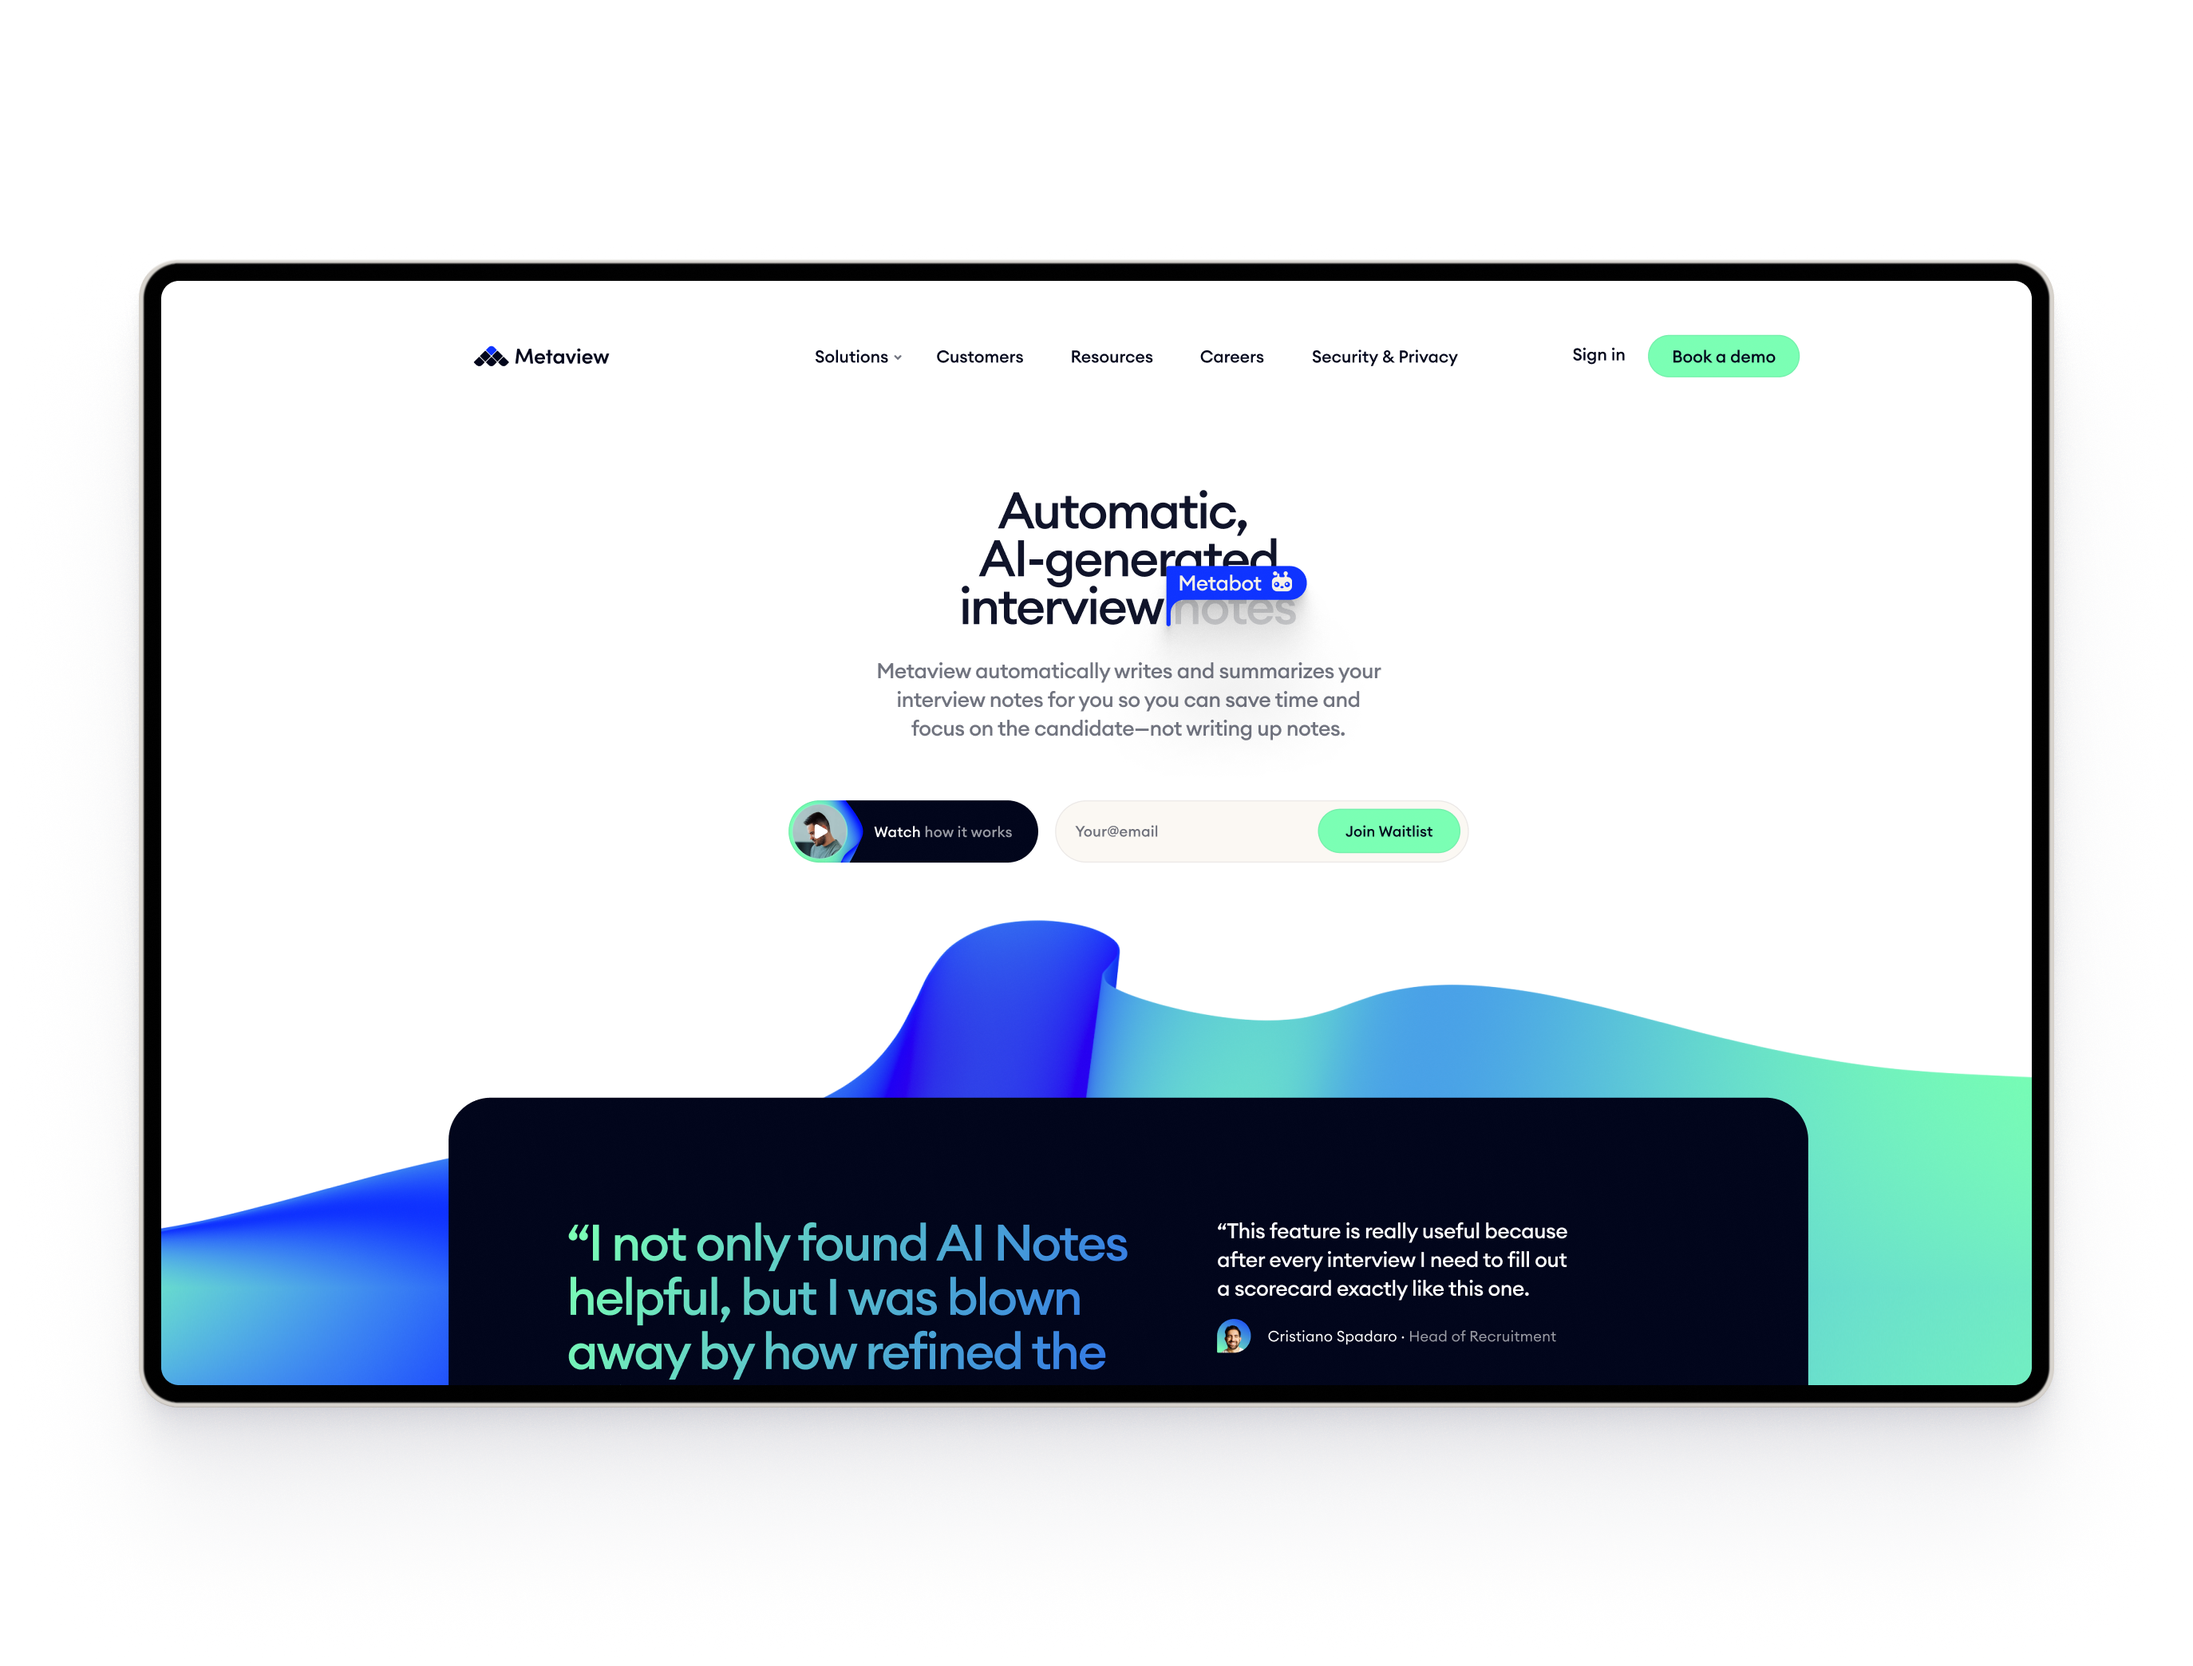
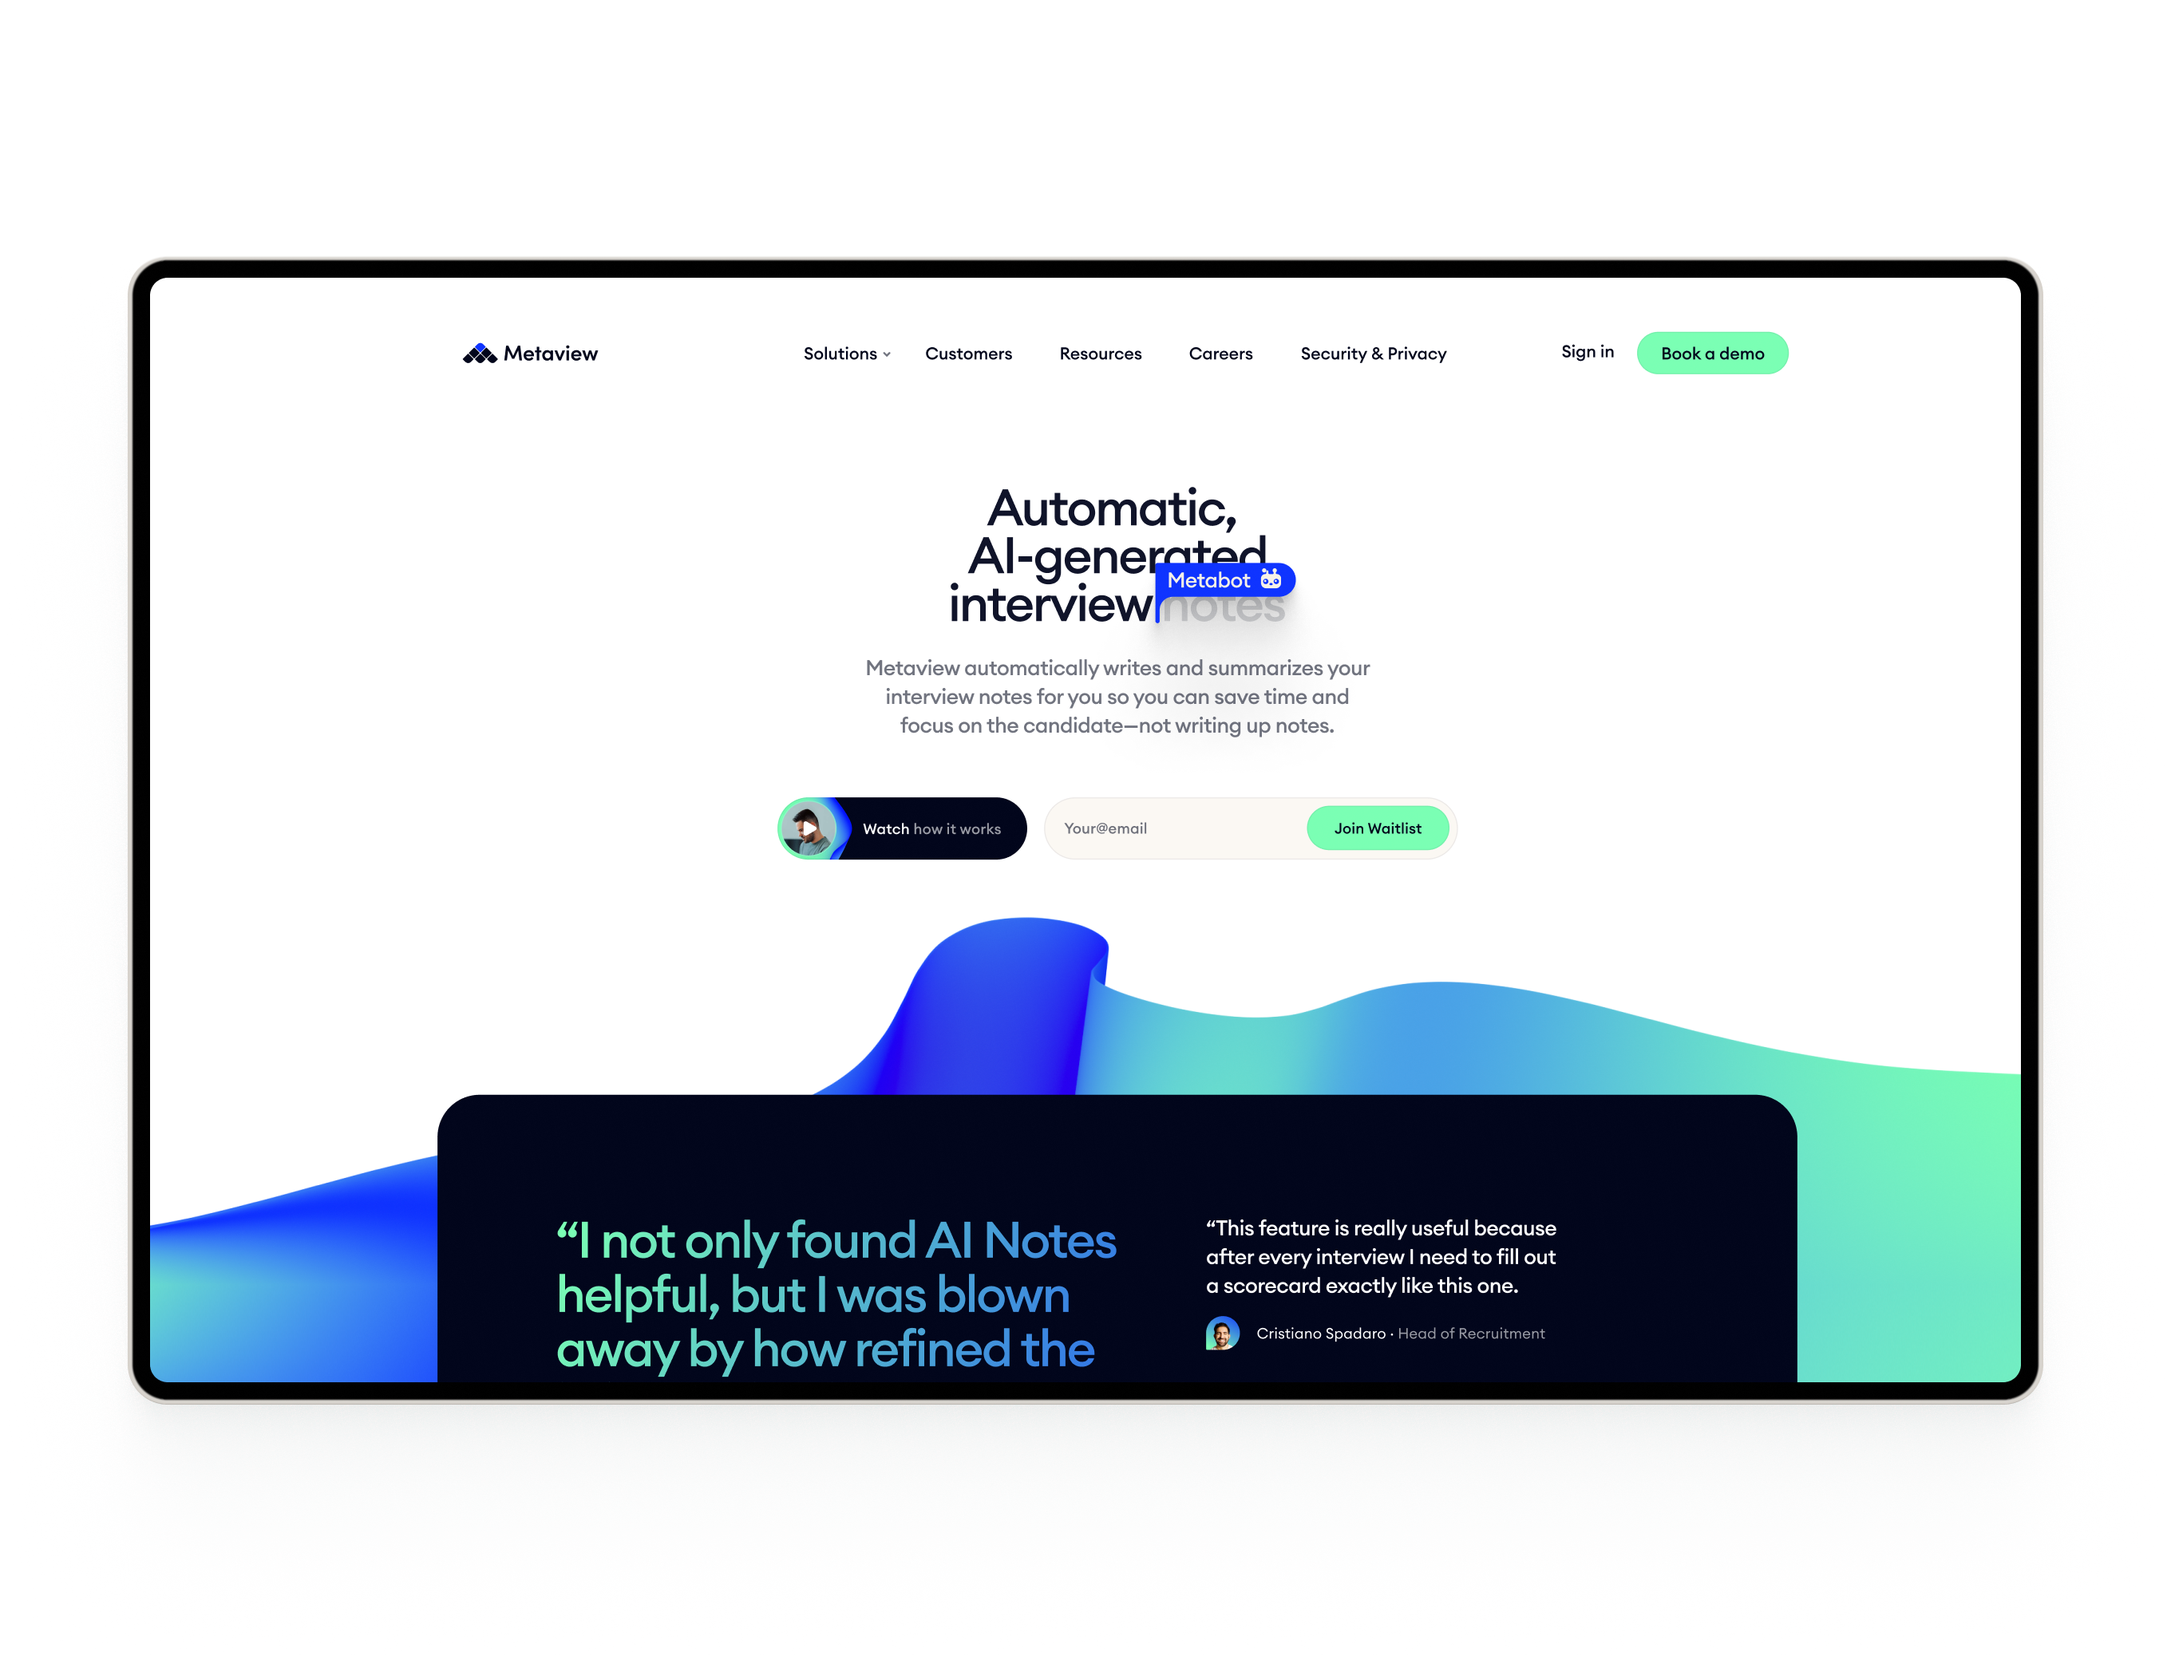
Add metaview assets

Changed region(s): [[0.0312, 0.1562, 0.9688, 0.8438], [0.4062, 0.2812, 0.625, 0.4375], [0.3438, 0.4688, 0.4062, 0.5312]]

diff --git a/src/pages/metaview/index.tsx b/src/pages/metaview/index.tsx
@@ -17,7 +17,56 @@ const Metaview = () => {
       <GridParent sx={{ rowGap: "clamp(8rem, 16vw, 16rem)" }}>
         <CaseHero heroHeight={1214}>
           <CaseHeroChild>
-            <Img src={images.metaviewHeroMobile} fromFolder="metaview" />
+            <Img src={images.heroMobile} fromFolder="metaview" />
+          </CaseHeroChild>
+
+          <CaseHeroChild
+            childStyle={{
+              marginLeft: "auto",
+              marginTop: "0%",
+            }}
+          >
+            <Img src={images.heroCard} fromFolder="metaview" ignoreShadow />
+          </CaseHeroChild>
+          <CaseHeroChild
+            childStyle={{
+              marginLeft: "0%",
+              marginTop: "41%",
+            }}
+          >
+            <Img src={images.heroChart} fromFolder="metaview" ignoreShadow />
+          </CaseHeroChild>
+          <CaseHeroChild
+            childStyle={{
+              marginLeft: "55.5%",
+              marginTop: "32%",
+            }}
+          >
+            <Img src={images.heroIcons} fromFolder="metaview" />
+          </CaseHeroChild>
+          <CaseHeroChild
+            childStyle={{
+              marginLeft: "auto",
+              marginTop: "31.4%",
+            }}
+          >
+            <Img src={images.heroGreenRibbon} fromFolder="metaview" />
+          </CaseHeroChild>
+          <CaseHeroChild
+            childStyle={{
+              marginLeft: "0%",
+              marginTop: "auto",
+            }}
+          >
+            <Img src={images.heroBubble} fromFolder="metaview" />
+          </CaseHeroChild>
+          <CaseHeroChild
+            childStyle={{
+              marginLeft: "35%",
+              marginTop: "auto",
+            }}
+          >
+            <Img src={images.heroSpag} fromFolder="metaview" ignoreShadow />
           </CaseHeroChild>
           <CaseHeroChild
             childStyle={{
@@ -25,7 +74,7 @@ const Metaview = () => {
               marginTop: "auto",
             }}
           >
-            <Img src={images.metaviewHeroMobile} fromFolder="metaview" />
+            <Img src={images.heroCTA} fromFolder="metaview" />
           </CaseHeroChild>
         </CaseHero>
         <Box sx={{ gridColumn: ["2/span 8", "2 / span 8"] }}>
@@ -43,8 +92,34 @@ const Metaview = () => {
 
             // onChangeIndex={(index) => console.log("Active index:", index)}
           >
-            <Img fromFolder="metaview" src={images.metaviewWeb0} ignoreShadow />
-            <Img fromFolder="metaview" src={images.metaviewWeb0} />
+            <Img fromFolder="metaview" src={images.web0} ignoreShadow />
+            <Img fromFolder="metaview" src={images.web4} />
+            <Img fromFolder="metaview" src={images.web1} ignoreShadow />
+            <Img fromFolder="metaview" src={images.web2} ignoreShadow />
+            <Img fromFolder="metaview" src={images.web3} />
+          </Carousel>
+        </Box>
+        <Box sx={{ gridColumn: ["2/span 8", "2 / span 8"] }}>
+          <Carousel
+            ratio={[1200, 675]}
+            heading={
+              <>
+                <span sx={{ color: "var(--caseForeground)" }}>
+                  The website’s design
+                </span>{" "}
+                was carefully crafted to prioritize legibility and ease-of-use,
+                with a more subdued aesthetic.
+              </>
+            }
+
+            // onChangeIndex={(index) => console.log("Active index:", index)}
+          >
+            <Img fromFolder="metaview" src={images.bb0} />
+            <Img fromFolder="metaview" src={images.bb1} />
+            <Img fromFolder="metaview" src={images.bb2} />
+            <Img fromFolder="metaview" src={images.bb3} />
+            <Img fromFolder="metaview" src={images.bb4} />
+            <Img fromFolder="metaview" src={images.bb5} />
           </Carousel>
         </Box>
 

diff --git a/src/pages/metaview/assets.tsx b/src/pages/metaview/assets.tsx
@@ -1,14 +1,116 @@
 export const images = {
-  metaviewWeb0: {
+  web0: {
     name: "web-0.png",
     width: 1200,
     height: 720,
-    alt: "Analytics",
+    alt: "AI notes",
   },
-  metaviewHeroMobile: {
+  web1: {
+    name: "web-1.png",
+    width: 1200,
+    height: 720,
+    alt: "Value Proposition",
+  },
+  web2: {
+    name: "web-2.png",
+    width: 1200,
+    height: 720,
+    alt: "Landing pages",
+  },
+  web3: {
+    name: "web-3.png",
+    width: 1200,
+    height: 720,
+    alt: "Custom mobile designs",
+  },
+  web4: {
+    name: "web-4.png",
+    width: 1200,
+    height: 720,
+    alt: "AI notes parallax",
+  },
+  bb0: {
+    name: "bb-0.png",
+    width: 1200,
+    height: 675,
+    alt: "Colors",
+  },
+  bb1: {
+    name: "bb-1.png",
+    width: 1200,
+    height: 675,
+    alt: "Social asset",
+  },
+  bb2: {
+    name: "bb-2.png",
+    width: 1200,
+    height: 675,
+    alt: "Mascot",
+  },
+  bb3: {
+    name: "bb-3.png",
+    width: 1200,
+    height: 675,
+    alt: "Ribbon style",
+  },
+  bb4: {
+    name: "bb-4.png",
+    width: 1200,
+    height: 675,
+    alt: "Setup",
+  },
+  bb5: {
+    name: "bb-5.png",
+    width: 1200,
+    height: 675,
+    alt: "Blog asset",
+  },
+  heroMobile: {
     name: "hero-mobile.png",
     width: 576,
     height: 437,
     alt: "Hero Mobile",
+  },
+  heroCTA: {
+    name: "hero-cta.png",
+    width: 432,
+    height: 229,
+    alt: "Hero CTA",
+  },
+  heroBubble: {
+    name: "hero-bubble.png",
+    width: 368,
+    height: 229,
+    alt: "Hero Bubble",
+  },
+  heroChart: {
+    name: "hero-chart.png",
+    width: 610,
+    height: 384,
+    alt: "Hero Chart",
+  },
+  heroCard: {
+    name: "hero-card.png",
+    width: 568,
+    height: 320,
+    alt: "Hero Card",
+  },
+  heroGreenRibbon: {
+    name: "hero-green-ribbon.png",
+    width: 308,
+    height: 501,
+    alt: "Hero Green Ribbon",
+  },
+  heroIcons: {
+    name: "hero-icons.png",
+    width: 170,
+    height: 448,
+    alt: "Hero Icons",
+  },
+  heroSpag: {
+    name: "hero-spag.png",
+    width: 288,
+    height: 281,
+    alt: "Hero Spag",
   },
 };
